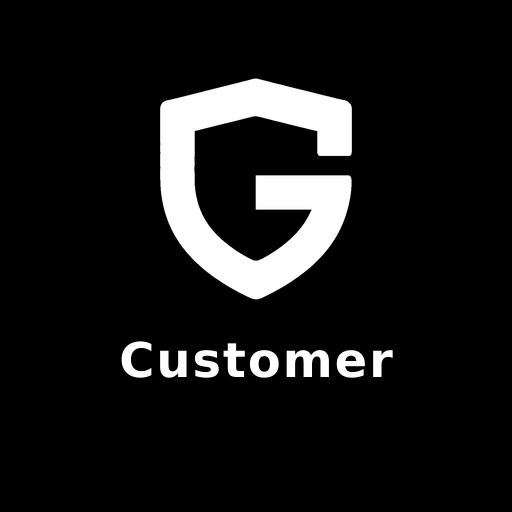
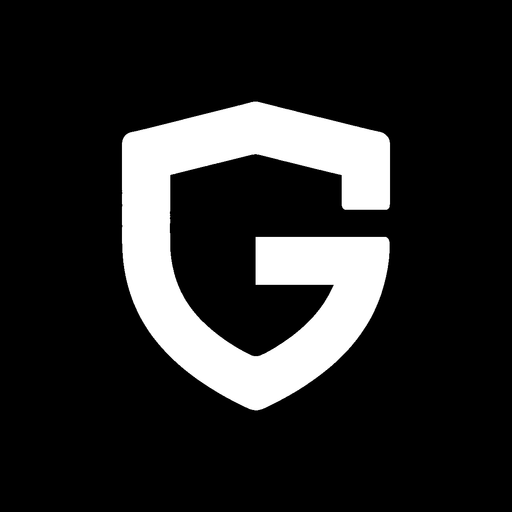
Leave the Customer launcher as a shield with no word
Guard still paints Guard under the mark and Staff still paints Staff.
The Customer home-screen, download, and Play Store icons are the
black field and white shield only so the artwork has no text.

Changed region(s): [[0.2188, 0.1562, 0.7812, 0.8125]]

diff --git a/docs/GOOGLE-PLAY.md b/docs/GOOGLE-PLAY.md
@@ -25,7 +25,7 @@ dist/play-store/Guardr-Staff.aab    (Staff — com.signaturesecurity.guardr.staf
 - **Play vs sideload flavors** — `play` build has no `REQUEST_INSTALL_PACKAGES` (Play policy safe); `sideload` keeps in-app APK updates for guardr.co/download
 - **Release signing** — reads `android/keystore.properties` (see `keystore.properties.example`)
 - **Play build flag** — `VITE_PLAY_STORE_BUILD=true` hides sideload update UI in Settings
-- **Store assets script** — unlabeled `icon-512.png`, Guard/Customer/Staff `*-icon-512.png`, `feature-graphic-1024x500.png`
+- **Store assets script** — unlabeled `icon-512.png`, Guard (labeled) / Customer (shield only) / Staff (labeled) `*-icon-512.png`, `feature-graphic-1024x500.png`
 - **Listing copy draft** — `docs/play-store-listing-copy.md`
 
 Sideload APK builds are unchanged: `npm run android:apk` → `public/download/guardr.apk`.
@@ -113,7 +113,7 @@ Upload from `assets/play-store/`:
 | Asset | File |
 |-------|------|
 | Guard app icon (512×512) | `guard-icon-512.png` (black field, white logo) |
-| Customer app icon (512×512) | `client-icon-512.png` (black field, white logo) |
+| Customer app icon (512×512) | `client-icon-512.png` (black field, white logo, no word) |
 | Staff app icon (512×512) | `staff-icon-512.png` (white field, black logo) |
 | Brand / fallback icon | `icon-512.png` |
 | Feature graphic (1024×500) | `feature-graphic-1024x500.png` |
